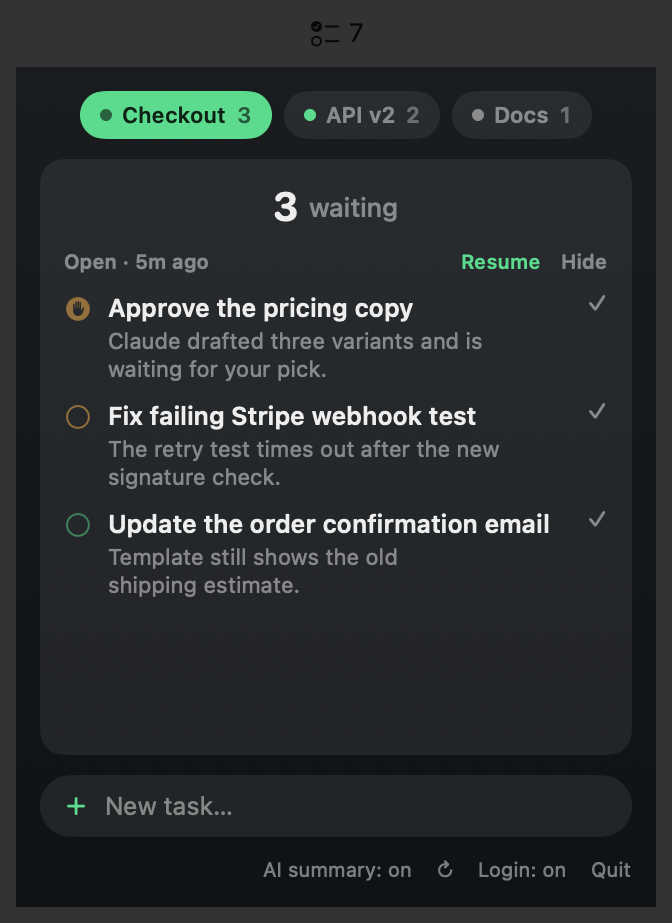
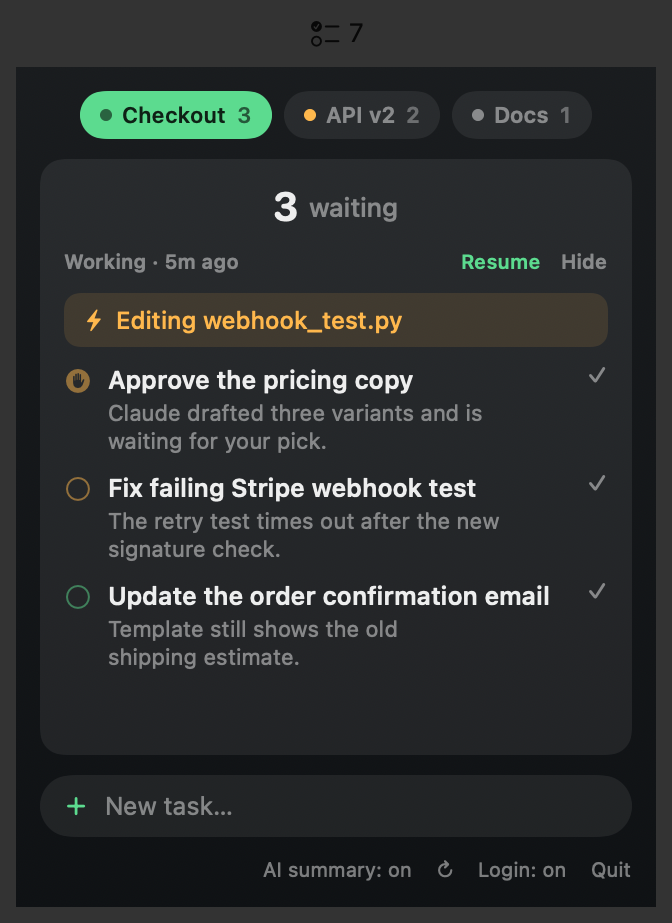
Show what busy sessions are doing now; focus the running terminal instead of opening a second one

diff --git a/App/TerminalLauncher.swift b/App/TerminalLauncher.swift
@@ -8,6 +8,8 @@ enum TerminalLauncher {
 
     static func resume(sessionID: String, cwd: String) {
         guard sessionID.range(of: #"^[0-9a-fA-F-]{8,64}$"#, options: .regularExpression) != nil else { return }
+        // already open in some terminal: bring that one forward instead of starting a second copy
+        if focusRunning(sessionID) { return }
         let dir = FileManager.default.fileExists(atPath: cwd) ? cwd : NSHomeDirectory()
         let command = "cd \(shellQuote(dir)) && claude --resume \(sessionID)"
         let app = terminal(for: sessionID)
@@ -36,6 +38,68 @@ enum TerminalLauncher {
         }
     }
 
+    /// Brings the window that hosts a still-running session to the front. Terminal and iTerm can select the exact
+    /// tab by its tty; other apps (Warp, Ghostty, …) have no scripting for that, so only the app is activated.
+    private static func focusRunning(_ sessionID: String) -> Bool {
+        guard let pid = pid(of: sessionID), kill(pid, 0) == 0, let host = hostApp(of: pid) else { return false }
+        let tty = ps(pid, field: "tty").map { "/dev/" + $0 } ?? ""
+        switch host {
+        case "Terminal" where !tty.isEmpty:
+            run("""
+            tell application "Terminal"
+                activate
+                repeat with w in windows
+                    repeat with t in tabs of w
+                        if tty of t is "\(tty)" then
+                            set selected of t to true
+                            set index of w to 1
+                            return
+                        end if
+                    end repeat
+                end repeat
+            end tell
+            """)
+        case "iTerm" where !tty.isEmpty:
+            run("""
+            tell application "iTerm"
+                activate
+                repeat with w in windows
+                    repeat with t in tabs of w
+                        repeat with s in sessions of t
+                            if tty of s is "\(tty)" then
+                                select t
+                                select s
+                                return
+                            end if
+                        end repeat
+                    end repeat
+                end repeat
+            end tell
+            """)
+        default:
+            let p = Process()
+            p.executableURL = URL(fileURLWithPath: "/usr/bin/open")
+            p.arguments = ["-a", host]
+            try? p.run()
+        }
+        return true
+    }
+
+    /// First app bundle above the process in the tree, e.g. "Warp".
+    private static func hostApp(of pid: Int32) -> String? {
+        var current = pid
+        for _ in 0..<12 {
+            guard let line = ps(current, field: "ppid=,comm=") else { return nil }
+            let parts = line.split(separator: " ", maxSplits: 1).map(String.init)
+            guard parts.count == 2, let parent = Int32(parts[0]), parent > 1 else { return nil }
+            if let r = parts[1].range(of: ".app/"), let slash = parts[1][..<r.lowerBound].lastIndex(of: "/") {
+                return String(parts[1][parts[1].index(after: slash)..<r.lowerBound])
+            }
+            current = parent
+        }
+        return nil
+    }
+
     /// The session's own terminal if it is still running, else the last one used, else one that is open, else Terminal.
     private static func terminal(for sessionID: String) -> String {
         if let pid = pid(of: sessionID), let app = ancestorTerminal(of: pid) { return app }
@@ -59,7 +123,7 @@ enum TerminalLauncher {
     private static func ancestorTerminal(of pid: Int32) -> String? {
         var current = pid
         for _ in 0..<12 {
-            guard let line = ps(current) else { return nil }
+            guard let line = ps(current, field: "ppid=,comm=") else { return nil }
             let parts = line.split(separator: " ", maxSplits: 1).map(String.init)
             guard parts.count == 2, let parent = Int32(parts[0]), parent > 1 else { return nil }
             for name in known where parts[1].contains("/\(name).app/") { return name }
@@ -68,10 +132,10 @@ enum TerminalLauncher {
         return nil
     }
 
-    private static func ps(_ pid: Int32) -> String? {
+    private static func ps(_ pid: Int32, field: String) -> String? {
         let p = Process(), out = Pipe()
         p.executableURL = URL(fileURLWithPath: "/bin/ps")
-        p.arguments = ["-o", "ppid=,comm=", "-p", "\(pid)"]
+        p.arguments = ["-o", field.hasSuffix("=") || field.contains(",") ? field : field + "=", "-p", "\(pid)"]
         p.standardOutput = out
         p.standardError = FileHandle.nullDevice
         do { try p.run() } catch { return nil }

diff --git a/App/TranscriptScanner.swift b/App/TranscriptScanner.swift
@@ -103,9 +103,11 @@ final class TranscriptScanner: @unchecked Sendable {
                 turn.lastPrompt = text
                 turn.lastAssistant = ""      // a new request starts a new turn
                 turn.stopReason = nil
+                turn.activity = ""
             } else if isAssistant {
                 turn.stopReason = message["stop_reason"] as? String
                 if let text = Self.text(of: message), !text.isEmpty { turn.lastAssistant = text }
+                if let now = Self.activity(of: message) { turn.activity = now }
             }
             if hasTodo, let items = Self.todoList(in: message) { turn.todos = items }
         }
@@ -122,6 +124,38 @@ final class TranscriptScanner: @unchecked Sendable {
         if let origin = obj["origin"] as? [String: Any], origin["kind"] as? String != "human" { return nil }
         guard let text = text(of: message), !text.isEmpty, !text.hasPrefix("<") else { return nil }
         return text
+    }
+
+    /// A short "what is it doing" line from the last tool call in an assistant message.
+    static func activity(of message: [String: Any]) -> String? {
+        guard let blocks = message["content"] as? [[String: Any]] else { return nil }
+        func name(_ path: Any?) -> String { ((path as? String) ?? "").split(separator: "/").last.map(String.init) ?? "a file" }
+        func clip(_ s: String, _ n: Int = 48) -> String {
+            let one = s.replacingOccurrences(of: "\n", with: " ").trimmingCharacters(in: .whitespaces)
+            return one.count > n ? String(one.prefix(n)) + "…" : one
+        }
+        if let tool = blocks.last(where: { $0["type"] as? String == "tool_use" }),
+           let tn = tool["name"] as? String {
+            let input = tool["input"] as? [String: Any] ?? [:]
+            switch tn {
+            case "Edit", "MultiEdit", "Write", "NotebookEdit": return "Editing \(name(input["file_path"] ?? input["notebook_path"]))"
+            case "Read": return "Reading \(name(input["file_path"]))"
+            case "Grep", "Glob": return "Searching the code"
+            case "Bash":
+                if let d = input["description"] as? String, !d.isEmpty { return clip(d) }
+                return "Running " + clip((input["command"] as? String) ?? "a command", 40)
+            case "Task", "Agent": return "Sub-agent: " + clip((input["description"] as? String) ?? "working", 38)
+            case "WebFetch", "WebSearch": return "Searching the web"
+            case "TodoWrite":
+                let todos = input["todos"] as? [[String: Any]] ?? []
+                if let cur = todos.first(where: { $0["status"] as? String == "in_progress" }),
+                   let f = (cur["activeForm"] ?? cur["content"]) as? String { return clip(f) }
+                return "Planning the next steps"
+            default: return tn.hasPrefix("mcp__") ? "Using \(tn.split(separator: "_").last.map(String.init) ?? "a tool")" : "Using \(tn)"
+            }
+        }
+        if blocks.contains(where: { $0["type"] as? String == "text" }) { return "Writing a reply" }
+        return nil
     }
 
     static func text(of message: [String: Any]) -> String? {
@@ -224,11 +258,12 @@ func buildSessions(from scanned: [ScannedSession], analyzer: SessionAnalyzer?, d
         }
 
         let onlyResume = items.allSatisfy { $0.kind == .resume }
-        if items.isEmpty && !analyzing { continue }
+        if items.isEmpty && !analyzing && !s.busy { continue }
         if !s.live, onlyResume, Date().timeIntervalSince(s.mtime) > closedWindow { continue }
 
         out.append(TodoSession(id: s.id, title: title, cwd: s.cwd, items: items, updatedAt: s.mtime,
-                               auto: auto, analyzing: analyzing, live: s.live, busy: s.busy, lastPrompt: s.turn.lastPrompt))
+                               auto: auto, analyzing: analyzing, live: s.live, busy: s.busy, lastPrompt: s.turn.lastPrompt,
+                               nowDoing: s.busy ? s.turn.activity : ""))
     }
 
     // Running sessions first, then by recency; same-named tabs get a number so they stay distinguishable.

diff --git a/Shared/WidgetViews.swift b/Shared/WidgetViews.swift
@@ -66,7 +66,7 @@ struct TodoWidgetView: View {
     @Environment(\.widgetFamily) private var environmentFamily
     private var family: WidgetFamily { familyOverride ?? environmentFamily }
 
-    private var tabs: [TodoSession] { entry.state.sessions.filter { $0.openCount > 0 || $0.analyzing } }
+    private var tabs: [TodoSession] { entry.state.sessions.filter { $0.openCount > 0 || $0.analyzing || $0.busy } }
     private var selected: TodoSession? { tabs.first { $0.id == entry.selectedID } ?? tabs.first }
 
     private var tabSlots: Int { family == .systemLarge ? 4 : 3 }
@@ -75,7 +75,10 @@ struct TodoWidgetView: View {
     private var windowStart: Int { max(0, min(selectedIndex - tabSlots + 1, tabs.count - tabSlots)) }
     private var visibleTabs: [TodoSession] { Array(tabs.dropFirst(windowStart).prefix(tabSlots)) }
 
-    private var rowLimit: Int { family == .systemLarge ? 5 : family == .systemMedium ? 2 : 3 }
+    private var rowLimit: Int {
+        let busy = selected?.busy == true && selected?.nowDoing.isEmpty == false
+        return family == .systemLarge ? 5 : family == .systemMedium ? (busy ? 1 : 2) : 3
+    }
 
     private var openItems: [TodoItem] {
         guard let s = selected else { return [] }
@@ -87,6 +90,7 @@ struct TodoWidgetView: View {
         let content = VStack(spacing: family == .systemMedium ? 5 : 8) {
             if family == .systemSmall { smallLabel } else { tabStrip }
             header
+            nowLine
             rows
             Spacer(minLength: 0)
         }
@@ -100,12 +104,24 @@ struct TodoWidgetView: View {
     private var header: some View {
         let n = selected?.openCount ?? 0
         return HStack(spacing: 5) {
-            if !(n == 0 && selected?.analyzing == true) { Text(n == 0 ? "All clear" : "\(n)").font(.system(size: family == .systemMedium ? 17 : 20, weight: .bold, design: .rounded)) }
+            if !(n == 0 && (selected?.analyzing == true || selected?.busy == true)) { Text(n == 0 ? "All clear" : "\(n)").font(.system(size: family == .systemMedium ? 17 : 20, weight: .bold, design: .rounded)) }
+            if n == 0, selected?.analyzing != true, selected?.busy == true { Text("Working…").font(.system(size: 13, weight: .medium)).foregroundStyle(Look.dim) }
             if n == 0, selected?.analyzing == true { Text("Reading session…").font(.system(size: 13, weight: .medium)).foregroundStyle(Look.dim) }
             if n > 0 { Text(youCount > 0 ? "waiting · \(youCount) on you" : "waiting").font(.system(size: 13, weight: .medium)).foregroundStyle(Look.dim) }
         }
         .foregroundStyle(n == 0 ? Look.accent : Look.text)
         .frame(maxWidth: .infinity)
+    }
+
+    /// Live activity of a busy session ("Editing TodoPanel.swift").
+    @ViewBuilder private var nowLine: some View {
+        if let s = selected, s.busy, !s.nowDoing.isEmpty, family != .systemSmall {
+            HStack(spacing: 5) {
+                Image(systemName: "bolt.fill").font(.system(size: 9)).foregroundStyle(Look.amber)
+                Text(s.nowDoing).font(.system(size: 10.5, weight: .medium)).foregroundStyle(Look.amber).lineLimit(1)
+            }
+            .frame(maxWidth: .infinity)
+        }
     }
 
     private var youCount: Int { openItems.filter(\.needsYou).count }
@@ -116,7 +132,7 @@ struct TodoWidgetView: View {
                 let isSelected = session.id == selected?.id
                 Button(intent: SelectSessionIntent(sessionID: session.id)) {
                     HStack(spacing: 4) {
-                        if session.id != "manual" { Circle().fill(isSelected ? Color.black.opacity(0.55) : session.live ? Look.accent : Look.dim).frame(width: 5, height: 5) }
+                        if session.id != "manual" { Circle().fill(isSelected ? Color.black.opacity(0.55) : session.busy ? Look.amber : session.live ? Look.accent : Look.dim).frame(width: 5, height: 5) }
                         Text(session.title).lineLimit(1)
                     }
                     .font(.system(size: 10, weight: .semibold))

diff --git a/App/TodoPanel.swift b/App/TodoPanel.swift
@@ -41,7 +41,7 @@ struct TodoPanel: View {
                             Button { store.selectedID = session.id } label: {
                                 HStack(spacing: 5) {
                                     if session.id != TodoStore.manualID {
-                                        Circle().fill(isSelected ? Color.black.opacity(0.55) : session.live ? Look.accent : Look.dim)
+                                        Circle().fill(isSelected ? Color.black.opacity(0.55) : session.busy ? Look.amber : session.live ? Look.accent : Look.dim)
                                             .frame(width: 6, height: 6)
                                     }
                                     Text(session.title).lineLimit(1)
@@ -103,8 +103,17 @@ struct TodoPanel: View {
                 }
                 .foregroundStyle(n == 0 ? Look.accent : Look.text)
                 if !isManual { sessionHeader(session) }
+                if session.busy, !session.nowDoing.isEmpty {
+                    HStack(spacing: 6) {
+                        Image(systemName: "bolt.fill").font(.system(size: 10)).foregroundStyle(Look.amber)
+                        Text(session.nowDoing).font(.system(size: 12, weight: .medium)).foregroundStyle(Look.amber).lineLimit(2)
+                    }
+                    .padding(.horizontal, 10).padding(.vertical, 6)
+                    .frame(maxWidth: .infinity, alignment: .leading)
+                    .background(Look.amber.opacity(0.12), in: RoundedRectangle(cornerRadius: 8))
+                }
                 if session.items.isEmpty {
-                    Text(isManual ? "Nothing yet. Add a task below." : session.analyzing ? "Reading session…" : "Nothing waiting")
+                    Text(isManual ? "Nothing yet. Add a task below." : session.analyzing ? "Reading session…" : session.busy ? "Working, nothing waiting on you yet" : "Nothing waiting")
                         .font(.system(size: 12)).foregroundStyle(Look.dim)
                         .padding(.top, 14).frame(maxWidth: .infinity)
                 }

diff --git a/Shared/SharedState.swift b/Shared/SharedState.swift
@@ -19,13 +19,13 @@ struct WidgetState: Codable {
                          detail: "The retry test times out after the new signature check."),
                 TodoItem(id: "2", content: "Update the order confirmation email", activeForm: "Update the order confirmation email", status: .pending,
                          detail: "Template still shows the old shipping estimate."),
-            ], updatedAt: .now.addingTimeInterval(-5 * 60)),
+            ], updatedAt: .now.addingTimeInterval(-5 * 60), live: true, busy: true, nowDoing: "Editing webhook_test.py"),
             TodoSession(id: "demo-2", title: "API v2", cwd: "", items: [
                 TodoItem(id: "0", content: "Rotate the staging API key", activeForm: "Rotate the staging API key", status: .pending,
                          detail: "The key was pasted into the chat; create a new one.", needsYou: true),
                 TodoItem(id: "1", content: "Run the v2 schema migration", activeForm: "Run the v2 schema migration", status: .pending,
                          detail: "Dry run passed; waiting for the go-ahead."),
-            ], updatedAt: .now.addingTimeInterval(-42 * 60)),
+            ], updatedAt: .now.addingTimeInterval(-42 * 60), live: true, busy: true, nowDoing: "Running the v2 migration dry run"),
             TodoSession(id: "demo-3", title: "Docs", cwd: "", items: [
                 TodoItem(id: "0", content: "Finish the install guide", activeForm: "Finish the install guide", status: .pending,
                          detail: "Linux and Windows sections are still empty."),

diff --git a/App/TodoStore.swift b/App/TodoStore.swift
@@ -176,7 +176,7 @@ final class TodoStore: ObservableObject {
 
     /// Writes state.json for the widget and nudges WidgetKit, but only when something actually changed.
     private func publishForWidget() {
-        let state = WidgetState(updatedAt: .now, sessions: sessions.filter { !$0.items.isEmpty || $0.analyzing })
+        let state = WidgetState(updatedAt: .now, sessions: sessions.filter { !$0.items.isEmpty || $0.analyzing || $0.busy })
         if let last = published, last.sessions == state.sessions { return }
         published = state
         SharedState.write(state)
@@ -191,6 +191,7 @@ final class TodoStore: ObservableObject {
         let scanner = TranscriptScanner(claudeDir: dir)
         for s in buildSessions(from: scanner.scan(), analyzer: nil) {
             print("[\(s.title)] \(s.live ? (s.busy ? "busy" : "live") : "closed")\(s.auto ? " auto" : " todo")")
+            if !s.nowDoing.isEmpty { print("  now: \(s.nowDoing)") }
             for i in s.items { print("  \(i.kind.rawValue)/\(i.status.rawValue): \(i.content)") }
         }
         exit(0)

diff --git a/Shared/Models.swift b/Shared/Models.swift
@@ -54,6 +54,8 @@ struct TodoSession: Identifiable, Hashable, Codable {
     var live = true
     var busy = false
     var lastPrompt = ""
+    /// Live activity of a busy session, e.g. "Editing TodoPanel.swift".
+    var nowDoing = ""
 
     var openCount: Int { items.filter { $0.status != .completed }.count }
     var doneCount: Int { items.count - openCount }
@@ -72,6 +74,7 @@ extension TodoSession {
         live = try c.decodeIfPresent(Bool.self, forKey: .live) ?? true
         busy = try c.decodeIfPresent(Bool.self, forKey: .busy) ?? false
         lastPrompt = try c.decodeIfPresent(String.self, forKey: .lastPrompt) ?? ""
+        nowDoing = try c.decodeIfPresent(String.self, forKey: .nowDoing) ?? ""
     }
 }
 

diff --git a/App/OpenWork.swift b/App/OpenWork.swift
@@ -7,6 +7,8 @@ struct TurnInfo {
     var lastAssistant = ""
     var stopReason: String?
     var todos: [TodoItem]?
+    /// What the last tool call or reply was about ("Editing TodoPanel.swift"); shown while a session is busy.
+    var activity = ""
 }
 
 /// Finds unfinished work in a conversation without calling any model: a real TodoWrite list wins,
